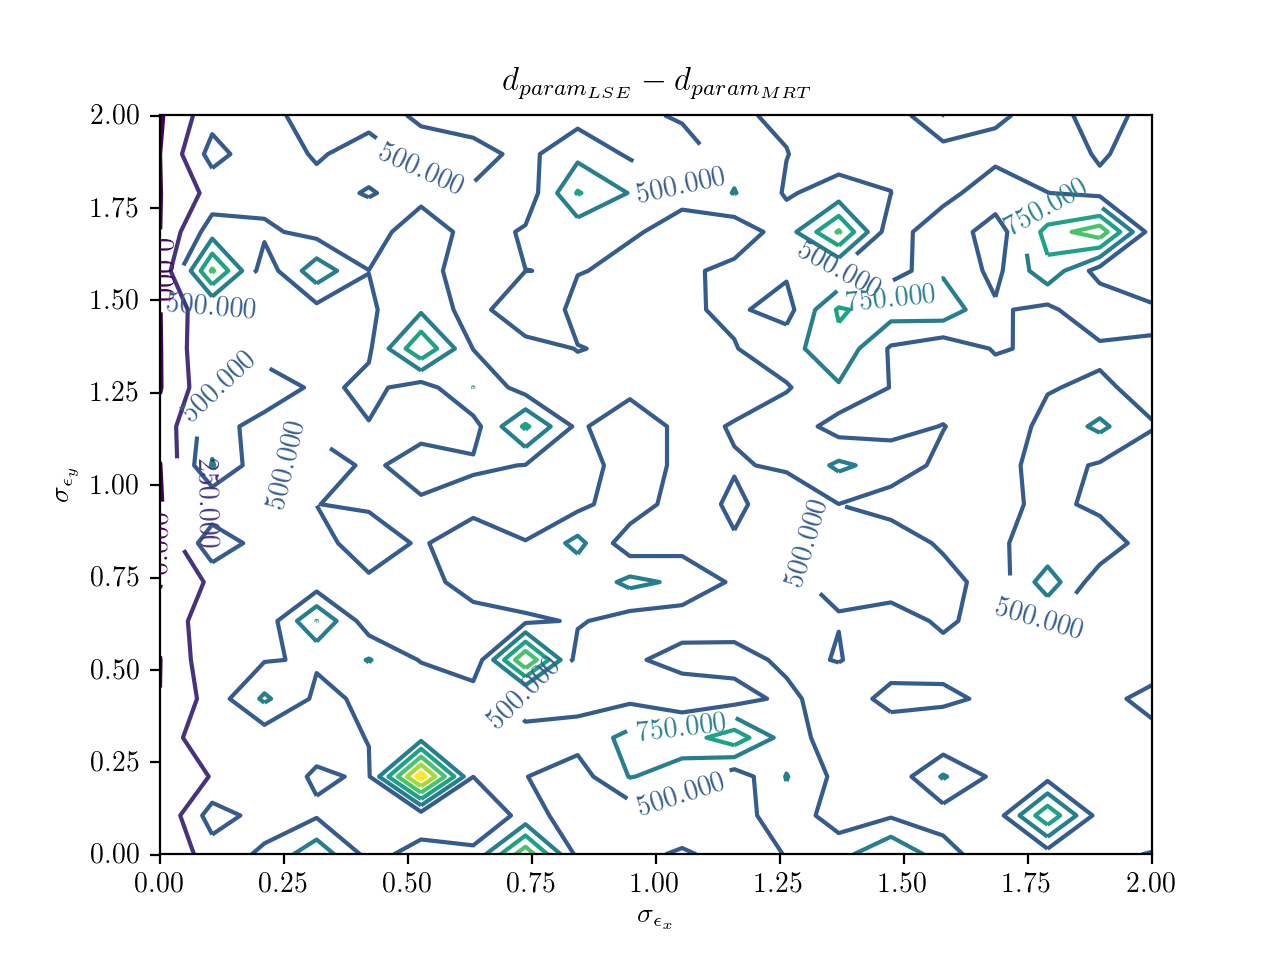
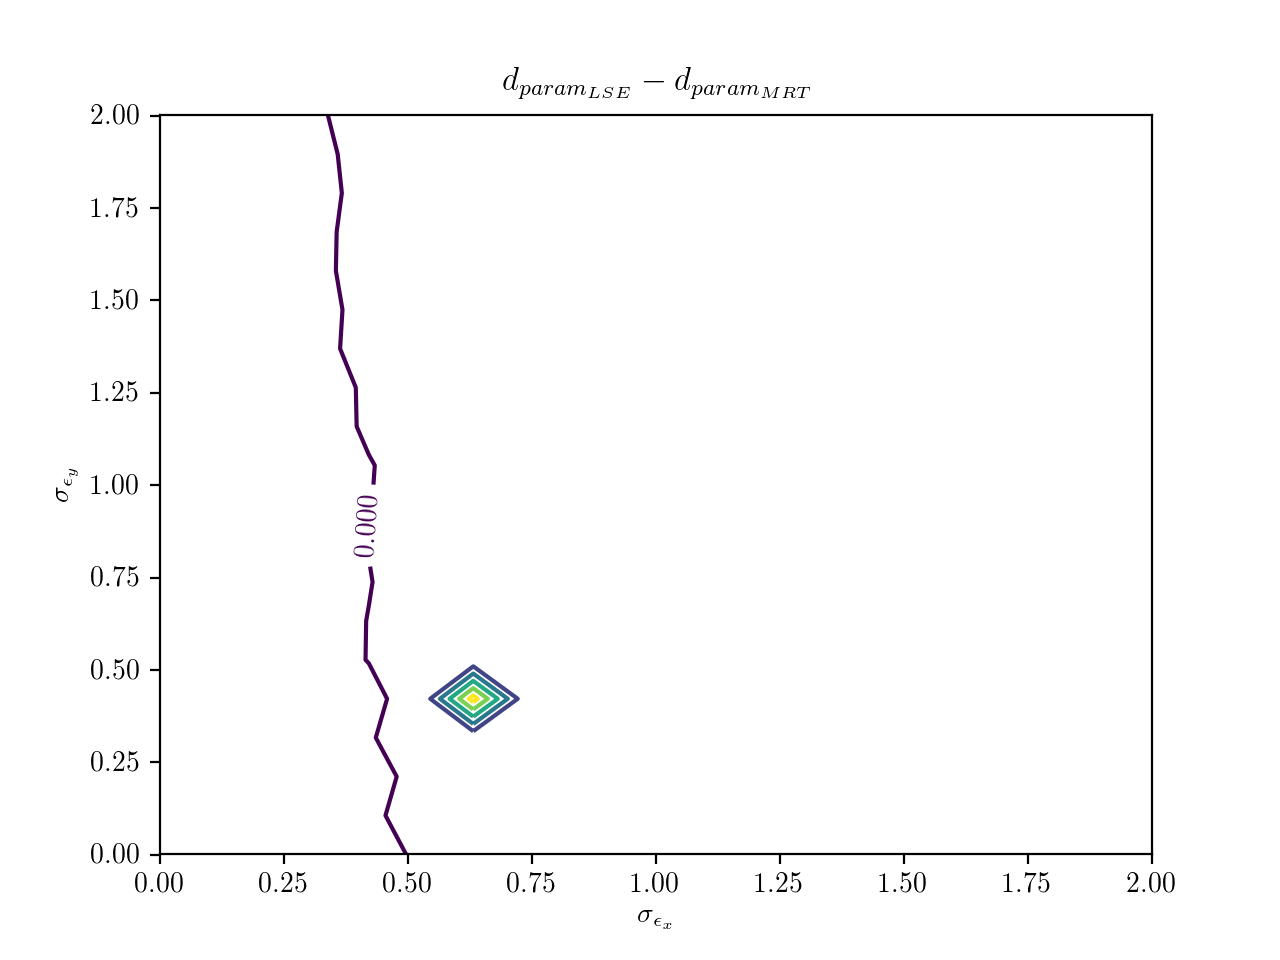
added hyperbolic

diff --git a/accuracy_per_std_x-y.py b/accuracy_per_std_x-y.py
@@ -18,10 +18,10 @@ import stats.accuracy as accuracy
 DESCRIPTION = 'Use this script to determine estimates accuracy'
 
 SYM_X, SYM_Y = SYM_VALUES = sp.symbols('x y')
-SYM_ALPHA, SYM_BETA = SYM_PARAMS = sp.symbols('a b')
+SYM_A, SYM_B = SYM_PARAMS = sp.symbols('a b')
 
-# SYM_EXPR = sp.sympify('a * exp(-alpha*x)')
-# SYM_EXPR_DELTA = sp.sympify('y - a * exp(-alpha*x)')
+# SYM_EXPR = sp.sympify('a * exp(-a*x)')
+# SYM_EXPR_DELTA = sp.sympify('y - a * exp(-a*x)')
 
 # linear function
 # SYM_EXPR = sp.sympify('a + b*x')
@@ -31,32 +31,29 @@ SYM_ALPHA, SYM_BETA = SYM_PARAMS = sp.symbols('a b')
 # SYM_EXPR = sp.sympify('a*x + b*(x**2)')
 # SYM_EXPR_DELTA = sp.sympify('y - a*x - b*(x**2)')
 
-# cubic function
-# SYM_EXPR = sp.sympify('a*(x**2) + b*(x**3)')
-# SYM_EXPR_DELTA = sp.sympify('y - b*(x**3) - a*(x**2)')
-
 # hyperbolic function
 SYM_EXPR = sp.sympify('a + 1/(b*(x+1))')
 SYM_EXPR_DELTA = sp.sympify('y - a - 1/(b*(x+1))')
-
-# logarithmic function
-# SYM_EXPR = sp.sympify('a + alpha*log(x)')
-# SYM_EXPR_DELTA = sp.sympify('y - a - alpha*log(x)')
-
-# exponential function
-# SYM_EXPR = sp.sympify('a * exp(b*x)')
-# SYM_EXPR_DELTA = sp.sympify('y - a * exp(b*x)')
 
 # sinusoidal function
 # SYM_EXPR = sp.sympify('a + b*sin(0.2*x)')
 # SYM_EXPR_DELTA = sp.sympify('y - (a + b*sin(0.2*x))')
 
+# logarithmic function
+# SYM_EXPR = sp.sympify('a + a*log(x)')
+# SYM_EXPR_DELTA = sp.sympify('y - a - a*log(x)')
+
+# exponential function
+# SYM_EXPR = sp.sympify('a * exp(b*x)')
+# SYM_EXPR_DELTA = sp.sympify('y - a * exp(b*x)')
+
+
 MIN_X = 0
 MAX_X = 10
 NUM_VALS = 100          # number of source values
 
-PRECISE_ALPHA = 0       # real 'alpha' value of source distribution
-PRECISE_BETA = 0.001    # real 'beta' value of source distiribution
+PRECISE_A = 0           # real 'a' value of source distribution
+PRECISE_B = 0.1       # real 'b' value of source distiribution
 
 ERR_NUM_STD_ITER = 20   # number of stds iterations
 
@@ -84,8 +81,8 @@ args = parser.parse_args()
 output_path, _ = os.path.splitext(args.output)
 
 print('Expression:               {}'.format(SYM_EXPR))
-print('Precise ALPHA:            {}'.format(PRECISE_ALPHA))
-print('Precise BETA:             {}'.format(PRECISE_BETA))
+print('Precise A:                {}'.format(PRECISE_A))
+print('Precise B:                {}'.format(PRECISE_B))
 print('Real X:                   {}..{}'.format(MIN_X, MAX_X))
 print('STD X:                    {}..{}'.format(ERR_MIN_STD_X, ERR_MAX_STD_X))
 print('STD X step:               {}'.format(ERR_STEP_STD_X))
@@ -97,7 +94,7 @@ print('Output path:              {}'.format(output_path))
 # build precise values
 precise_expr = sp.lambdify(
     SYM_X,
-    SYM_EXPR.subs({SYM_ALPHA: PRECISE_ALPHA, SYM_BETA: PRECISE_BETA}),
+    SYM_EXPR.subs({SYM_A: PRECISE_A, SYM_B: PRECISE_B}),
     'numpy')
 precise_vectorized = np.vectorize(precise_expr)
 # get precise values
@@ -176,52 +173,52 @@ for std_i, err_std_row in enumerate(np.dstack((err_stds_x, err_stds_y))):
             # Basic search #
             ################
             # find params with basic method
-            basic_alpha, basic_beta = methods.search_basic(
+            basic_a, basic_b = methods.search_basic(
                 delta_expression=SYM_EXPR_DELTA,
-                parameters=(SYM_ALPHA, SYM_BETA),
+                parameters=(SYM_A, SYM_B),
                 values=base_values
             )
-            # print('Basic alpha: {}'.format(basic_alpha))
-            # print('Basic beta:  {}'.format(basic_beta))
+            # print('Basic a: {}'.format(basic_a))
+            # print('Basic b:  {}'.format(basic_b))
             # add distance between estimates and real values
             basic_acc = accuracy.avg_euclidean_dst(
-                np.array(((PRECISE_ALPHA), (PRECISE_BETA))),
-                np.array(((basic_alpha), (basic_beta))))
+                np.array(((PRECISE_A), (PRECISE_B))),
+                np.array(((basic_a), (basic_b))))
             basic_accs[std_i, std_j] += basic_acc
 
             ##############
             # LSE search #
             ##############
             # use basic estimates as init estimates for LSE
-            lse_alpha, lse_beta = methods.search_lse(
+            lse_a, lse_b = methods.search_lse(
                     expression=SYM_EXPR,
-                    parameters=(SYM_ALPHA, SYM_BETA),
+                    parameters=(SYM_A, SYM_B),
                     values={SYM_X: measured_vals_x},
                     result_values={SYM_Y: measured_vals_y},
-                    init_estimates={SYM_ALPHA: basic_alpha, SYM_BETA: basic_beta},
+                    init_estimates={SYM_A: basic_a, SYM_B: basic_b},
                     num_iter=LSE_NUM_ITER)
-            # print('LSE({}) alpha: {}'.format(LSE_NUM_ITER, lse_alpha))
-            # print('LSE({}) beta:  {}'.format(LSE_NUM_ITER, lse_beta))
+            # print('LSE({}) a: {}'.format(LSE_NUM_ITER, lse_a))
+            # print('LSE({}) b:  {}'.format(LSE_NUM_ITER, lse_b))
             lse_acc = accuracy.avg_euclidean_dst(
-                np.array(((PRECISE_ALPHA), (PRECISE_BETA))),
-                np.array(((lse_alpha), (lse_beta))))
+                np.array(((PRECISE_A), (PRECISE_B))),
+                np.array(((lse_a), (lse_b))))
             lse_accs[std_i, std_j] += lse_acc
 
             ##############
             # Mrt search #
             ##############
             # find params with mrt method
-            mrt_alpha, mrt_beta = methods.search_mrt(
+            mrt_a, mrt_b = methods.search_mrt(
                 delta_expression=SYM_EXPR_DELTA,
-                parameters=(SYM_ALPHA, SYM_BETA),
+                parameters=(SYM_A, SYM_B),
                 values={SYM_X: measured_vals_x, SYM_Y: measured_vals_y},
                 err_stds={SYM_X: err_std_x, SYM_Y: err_std_y}
             )
-            # print('MRT alpha:    {}'.format(mrt_alpha))
-            # print('MRT beta:     {}'.format(mrt_beta))
+            # print('MRT a:    {}'.format(mrt_a))
+            # print('MRT b:     {}'.format(mrt_b))
             mrt_acc = accuracy.avg_euclidean_dst(
-                np.array(((PRECISE_ALPHA), (PRECISE_BETA))),
-                np.array(((mrt_alpha), (mrt_beta))))
+                np.array(((PRECISE_A), (PRECISE_B))),
+                np.array(((mrt_a), (mrt_b))))
             mrt_accs[std_i, std_j] += mrt_acc
 
 basic_accs /= NUM_ITER

diff --git a/plotter.py b/plotter.py
@@ -62,9 +62,11 @@ plt.title('$ d_{param_{LSE}} - d_{param_{MRT}} $')
 plt.clabel(contour_param, inline=True, fontsize=10)
 plt.xlabel('$ \sigma_{\epsilon_x} $')
 plt.ylabel('$ \sigma_{\epsilon_y} $')
-plt.savefig(
-    '{}{}'.format(output_path, output_ext),
-    dpi=200)
+
+if args.output:
+    plt.savefig(
+        '{}{}'.format(output_path, output_ext),
+        dpi=200)
 
 if args.show:
     plt.show()

diff --git a/reals-2.py b/reals-2.py
@@ -28,8 +28,8 @@ SYM_A, SYM_B = SYM_PARAMS = sp.symbols('a b')
 # SYM_EXPR_DELTA = sp.sympify('y - a * exp(b*x)')
 
 # linear function
-SYM_EXPR = sp.sympify('a + b*x')
-SYM_EXPR_DELTA = sp.sympify('y - a - b*x')
+# SYM_EXPR = sp.sympify('a + b*x')
+# SYM_EXPR_DELTA = sp.sympify('y - a - b*x')
 
 # quadratic function
 # SYM_EXPR = sp.sympify('a*(x**2) + b*x')
